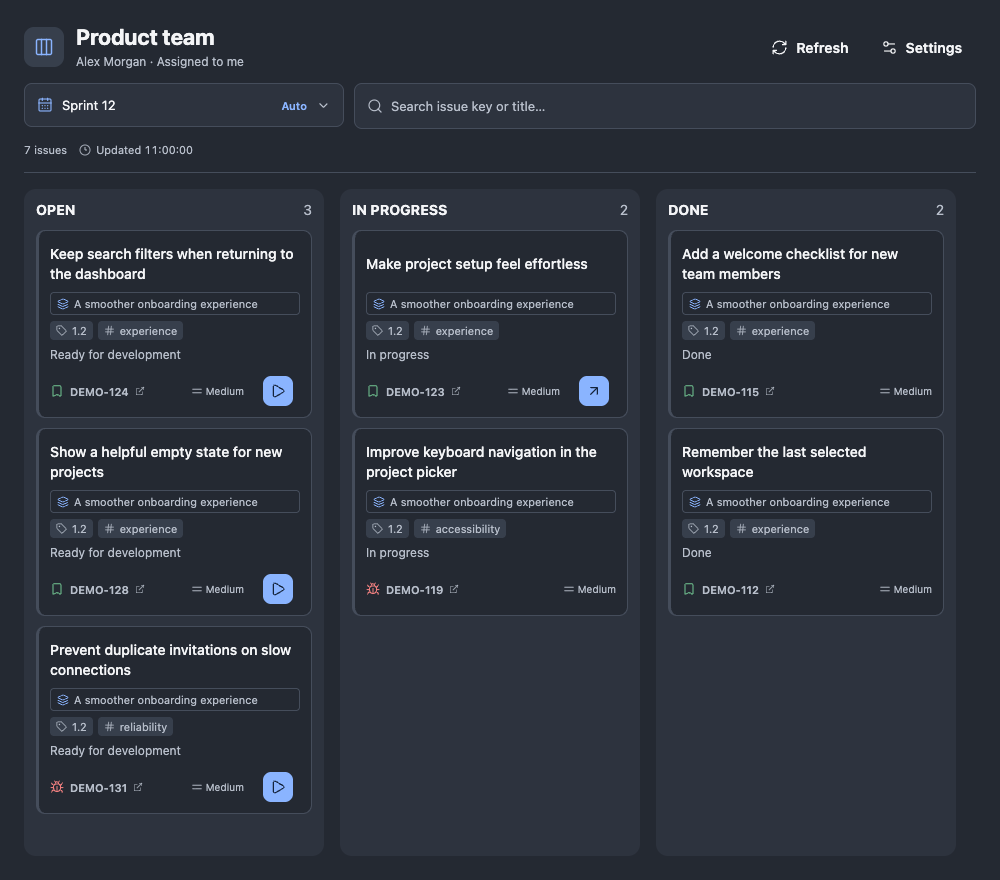
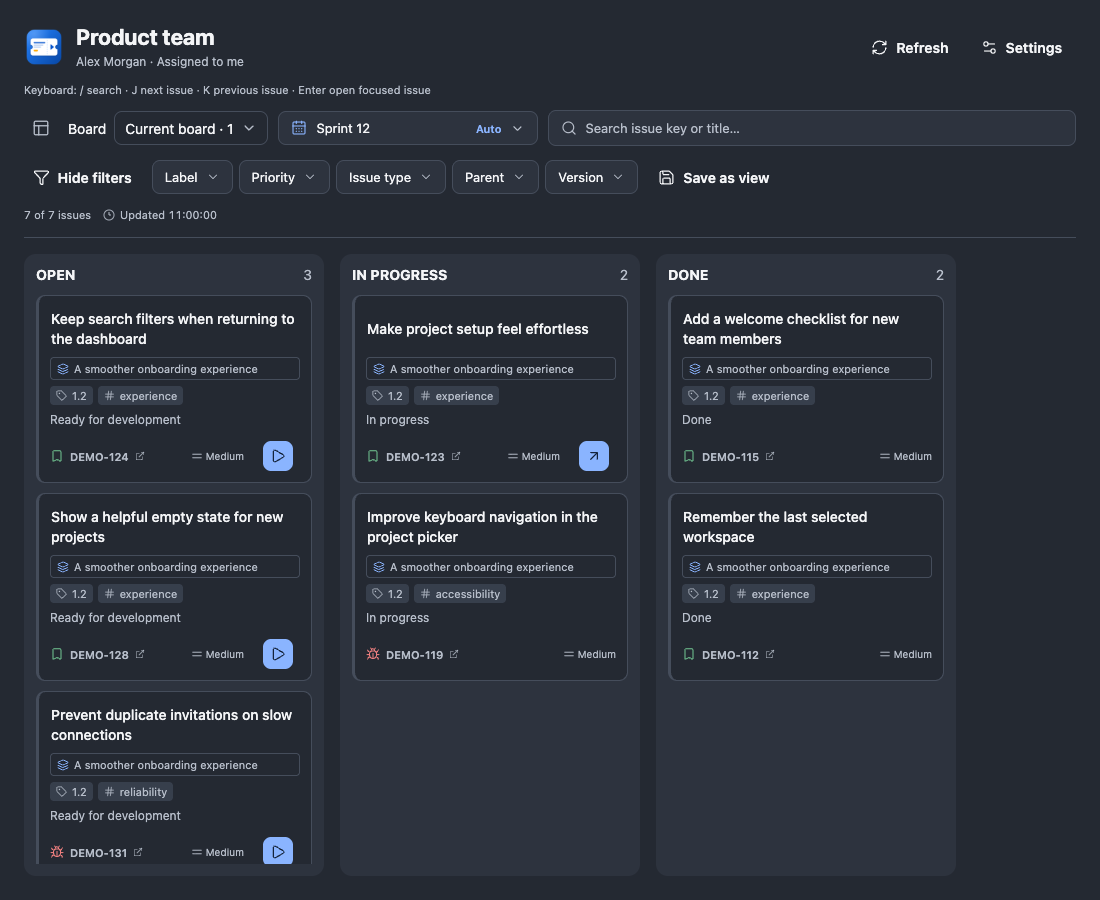
chore(release): prepare 1.1.0 (#28)

diff --git a/cypress/registry/listing.cy.tsx b/cypress/registry/listing.cy.tsx
@@ -7,8 +7,9 @@ const detail=()=>cy.get('[aria-label^="Open details for DEMO-123:"]');
 describe('Registry previews',()=>{
  beforeEach(()=>registryRpc());
  it('desktop board and details → readable public listing screenshots',()=>{
-  cy.viewport(1000,880);mount(<Harness preview mode="panel" mappingItems={registryMappings}/>);
+  cy.viewport(1100,900);mount(<Harness preview mode="panel" mappingItems={registryMappings}/>);
   detail().should('be.visible');button('Start work DEMO-124').should('be.visible');
+  button('Filters').click();
   cy.get('[data-cy-root]').screenshot('registry-dashboard');
   cy.viewport(1500,880);detail().click();cy.contains('What success looks like').should('be.visible');
   cy.get('[data-testid="details-panel"]').should('contain.text','DEMO-123');
@@ -35,6 +36,7 @@ describe('Registry previews',()=>{
   button('Close issue details').should('be.visible');cy.contains('What success looks like').should('be.visible');
   cy.contains('[role="button"]','Attachments (0)').click({scrollBehavior:false});
   cy.contains('The updated flow is ready for review.',{matchCase:false}).should('exist');
+  button('Description').click({scrollBehavior:false});
   cy.get('[data-cy-root]').screenshot('registry-mobile');
  });
 });

diff --git a/cypress/support/registry-data.ts b/cypress/support/registry-data.ts
@@ -11,7 +11,7 @@ export const registryBoard={...board,name:'Product team',user:{displayName:'Alex
  ticket('DEMO-115','Add a welcome checklist for new team members','3'),
  ticket('DEMO-112','Remember the last selected workspace','3'),
 ]};
-export const registryDetails={description:[],richDescription:[
+export const registryDetails={relationships:{complete:true,items:[{key:"DEMO-119",summary:"Improve keyboard navigation in the project picker",status:"In progress",relationship:"relates to"}]},description:[],richDescription:[
  {kind:'paragraph',runs:[{text:'Help new team members create their first project with clear steps, useful defaults and helpful feedback.'}]},
  {kind:'heading',level:2,runs:[{text:'What success looks like'}]},
  {kind:'paragraph',prefix:'• ',runs:[{text:'Keep the setup focused on the essential choices.'}]},

diff --git a/docs/AGENT_HANDOFF.md b/docs/AGENT_HANDOFF.md
@@ -1,12 +1,16 @@
 # Jira Sprint Workspace — agent handoff
 
-Updated: 2026-11-06. Current continuation brief; implementation detail lives in [MCP implementation](MCP_IMPLEMENTATION.md), [TWG implementation](TWG_IMPLEMENTATION.md), [specification](../SPECIFICATION.md) and [design](../DESIGN.md).
+Updated: 2026-11-07. Current continuation brief; implementation detail lives in [MCP implementation](MCP_IMPLEMENTATION.md), [TWG implementation](TWG_IMPLEMENTATION.md), [specification](../SPECIFICATION.md) and [design](../DESIGN.md).
 
 ## Repository and delivery status
 
-The repository is public. Atlassian MCP support merged into `main` on 2026-11-05 in [PR #8](https://github.com/mbranicky/jira-dashboard/pull/8) (commit `f5019ca`). All three CI checks passed. The local plugin was reloaded from `main` in `/Users/marek/Projects/paseo/jira-dashboard`. See the [release history](https://github.com/mbranicky/jira-dashboard/releases) and [installation guide](GETTING_STARTED.md) for 1.0.0.
+The repository is public. Version 1.0.0 is published. PRs #23–#27 merged into main at `3956ad8` after all checks passed; the local plugin was reloaded from main and displayed 28 issues. They add quick filters/saved views, related issues, keyboard navigation, saved boards and private drafts, including compact responsive controls and tooltip icons.
 
-Latest fix: MCP transition discovery returned `to.name` and `to.statusCategory.key` without destination `id`, causing raw validation JSON before any submission. User-triggered value-free diagnostics confirmed the shape and `listJiraStatuses` site lookup output `{data:{statuses:[{id,name}]}}`. The adapter now resolves an omitted ID through `mode: site, nameContains`, requires one exact case-sensitive name match, rejects malformed/ambiguous/explicitly incomplete results, and rechecks the mapping before writing. Existing IDs bypass lookup. The transition ID remains the submitted action; fresh issue status must match the resolved destination afterward. REST/TWG adapters are unchanged. The temporary lookup probe was removed; readable preflight errors remain.
+Version 1.1.0 is in preparation on `codex/release-1-1-0`. All three connection methods remain in scope. Do not tag, publish, or submit a directory listing without explicit authorization. See the [release checklist](../.claude/plans/first-version-checklist.md) for candidate verification and remaining gates. Drafts use device-local browser/app storage; native mobile storage is session-only. Host-scoped board bookmarks and saved views are shared, not private drafts.
+
+Candidate verification: 296 Node tests, 143 Chrome tests, 14 release-script tests, both typechecks, source/package checks and clean extracted manifest build passed. Screenshots use reviewed synthetic fixtures. See [testing](TESTING.md#110-candidate-verification--2026-11-07). Final artifact checksum is kept outside packaged files; preparation changes still need their PR and merged-main checks.
+
+Historical MCP fix: transition discovery returned `to.name` and `to.statusCategory.key` without destination `id`, causing raw validation JSON before any submission. User-triggered value-free diagnostics confirmed the shape and `listJiraStatuses` site lookup output `{data:{statuses:[{id,name}]}}`. The adapter now resolves an omitted ID through `mode: site, nameContains`, requires one exact case-sensitive name match, rejects malformed/ambiguous/explicitly incomplete results, and rechecks the mapping before writing. Existing IDs bypass lookup. The transition ID remains the submitted action; fresh issue status must match the resolved destination afterward. REST/TWG adapters are unchanged. The temporary lookup probe was removed; readable preflight errors remain.
 
 No live move was tested or submitted by the agent. The fix is covered by mocked response/ambiguity/change/readback regression tests; live successful transition remains unverified. No user diagnostic reply is pending.
 
@@ -53,7 +57,7 @@ This is a presentation workaround. Before future comment integration changes, re
 
 Pre-merge verification is summarized below. [Testing](TESTING.md) records the focused regression checks and full suite results.
 
-Remaining work includes verifying the MCP upload preparation and media response formats without live test writes, checking native credential storage on other supported hosts, and resolving [distribution clearance for the local-token approach](ATLASSIAN_AUTH_POLICY.md) before a registry release.
+Remaining work includes verifying the MCP upload preparation and media response formats without live test writes, checking native credential storage on other supported hosts, and resolving [distribution clearance for the local-token approach](ATLASSIAN_AUTH_POLICY.md) before a Paseo directory submission. The recorded risk acceptance covered npm 1.0.0; record the next-release decision before npm publication.
 
 ## Production diagnostics
 

diff --git a/.claude/plans/first-version-checklist.md b/.claude/plans/first-version-checklist.md
@@ -8,6 +8,23 @@ This file is the source of truth for tracking progress.
 
 Baseline reviewed 2026-11-03: 83 Node tests, 33 Chrome component/capture tests, and both type checks passed; 118 Git candidate files audited; 68 package files checked. Checked means the stated task is complete; partial coverage stays unchecked. Initial Git commit and public release are separate milestones. Do not publish, select a license, or bump the version without the user's direction.
 
+## 1.1.0 release preparation (2026-11-07)
+
+This section governs the next release. Older sections below are historical records; unchecked first-release items are not evidence that published 1.0.0 is still pending.
+
+- [x] Merge PRs #23–#27 after green checks; reload main (`3956ad8`) and verify the board loads.
+- [x] Set package, shrinkwrap root/package entry and MCP handshake metadata to 1.1.0. Preserve plugin ID and Paseo requirement `>=0.14.0 <0.16.0`.
+- [x] Keep REST API, Teamwork Graph CLI OAuth and Atlassian MCP OAuth.
+- [x] Add 1.1.0 changelog and update the handoff. Document native mobile draft fallback and unchanged host/upload limitations.
+- [x] Refresh and visually review all four public screenshots using synthetic data; update approved media hashes.
+- [x] Run full Node/browser tests, both typechecks, package validation and source scan on the release candidate. Passed 296 Node tests, 143 Chrome tests and 14 release-script tests; see `docs/TESTING.md`.
[1 lines of base64/hex data omitted]
+- [ ] Merge the preparation PR after green checks and verify exact merged-main CI before immutable release actions.
+- [ ] Confirm npm trusted publishing configuration before the planned GitHub Actions publication.
+- [ ] Record the npm 1.1.0 decision on unresolved ECOHELP-182681 questions. Existing written acceptance names npm 1.0.0; no new policy clearance is implied.
+- [ ] Obtain explicit authorization before tagging or publishing. No release or directory submission is authorized by preparation.
+- [ ] After publication, install the published package by name on a clean host; verify the directory listing separately if authorized.
+
 ## 1.0.0 release preparation (2026-11-06)
 
 - [x] Choose the public display name **Jira Sprint Workspace**, default plugin ID and package name `paseo-jira-sprint-workspace`, and package version `1.0.0`. Document the ID change for development installations.
@@ -71,9 +88,9 @@ Baseline reviewed 2026-11-03: 83 Node tests, 33 Chrome component/capture tests, 
 
   Sprint selection is saved per board. PR #10 added per-host, per-board session retention for search and the mobile column; it also added a read-only refresh beside uncertain comment drafts.
 
-- [ ] **Protect unfinished comments:** warn before switching tickets or closing details when a comment draft would be lost.
+- [x] **Protect unfinished comments:** retain drafts across ticket changes and closing details, with explicit storage limitations.
 
-  Code inspection found existing host/issue-scoped comment draft storage. The browser suite verifies retention through collapse, ticket switching, and navigation. Restart still clears session drafts; no explicit unsaved-draft warning exists.
+  Superseded by PR #27: verified-account-scoped device-local drafts survive reloads on desktop/browser clients. Native mobile clients explicitly report session-only retention. Uncertain delivery remains protected, and a missing durable delivery marker blocks web submission. Regression tests cover identity, restoration and failure paths.
 
 - [x] **Clear partial-failure recovery:** if a workspace is created but agent startup fails, offer a retry that reuses the workspace.
 

diff --git a/docs/TESTING.md b/docs/TESTING.md
@@ -1,5 +1,17 @@
 # Testing Jira Sprint Workspace
 
+## 1.1.0 candidate verification — 2026-11-07
+
+Prepared on `codex/release-1-1-0` from merged main `3956ad8`, on macOS Apple silicon. Package, shrinkwrap and MCP client metadata all identify version 1.1.0. REST API, Teamwork Graph CLI OAuth and Atlassian MCP OAuth remain included.
+
+- `npm run check`: both typechecks, 296 Node tests, source heuristic audit and package validation passed.
+- `python3 -B scripts/test_npm_release.py`: 14 release-script tests passed.
+- `npm run test:ui`: all 143 Chrome component/capture tests passed, using mocks.
+- The clean extracted npm package completed both manifest build commands: `npm ci --omit=dev --ignore-scripts` and `node scripts/prepare-native.mjs`. Installation reported zero dependency vulnerabilities.
+- Desktop, detail, mobile and settings screenshots were regenerated with synthetic data and visually reviewed. The settings capture remains byte-identical to the previous approved image; the other three show the updated interface.
+
+The final tarball checksum is recorded outside packaged files in the release checklist and beside the retained artifact. This checkpoint does not establish a new isolated-host runtime test, live Jira write coverage, or additional platform support. The earlier 1.0.0 host test below remains historical evidence. No tag or publication was performed; preparation PR checks and final merged-main verification remain release gates.
+
 ## Apple silicon npm tarball test
 
[1 lines of base64/hex data omitted]

diff --git a/CHANGELOG.md b/CHANGELOG.md
@@ -1,5 +1,16 @@
 # Changelog
 
+## 1.1.0
+
+- Filter sprint issues by label, priority, issue type, parent and fix version with searchable multi-select menus. Save named filter/search views per board.
+- Save and switch between boards on the same Jira site while retaining connection settings, project mappings and per-board sprint/search state.
+- Show related issues and subtasks with relationship labels, statuses and compact Jira links.
+- Navigate the desktop board with J/K, focus search with /, and open the focused issue with Enter. Shortcuts do not intercept editors or dialogs.
+- Retain private comment and linked-reply drafts on this device, scoped to the host, Jira site, verified account and issue. Desktop/browser storage survives reloads; native mobile clients retain drafts only for the session. Uncertain delivery stays protected against accidental reposting.
+- Refresh plugin and board-header icons; add section icons and accessible action tooltips. Compact controls and removable filter chips reduce header height, with responsive toolbar wrapping on smaller screens.
+
+REST API, Teamwork Graph CLI OAuth and Atlassian MCP OAuth remain supported. Host coverage and MCP upload limitations are unchanged: macOS Apple silicon is verified, Ubuntu has automated coverage, other hosts remain unverified, and MCP uploads have mock-only verification.
+
 ## 1.0.0
 
 First release under the display name **Jira Sprint Workspace**. The Paseo installation ID and npm package name are both `paseo-jira-sprint-workspace`. Existing development installations used `jira-dashboard`. See the [upgrade instructions](docs/GETTING_STARTED.md#updating-from-the-development-id).
